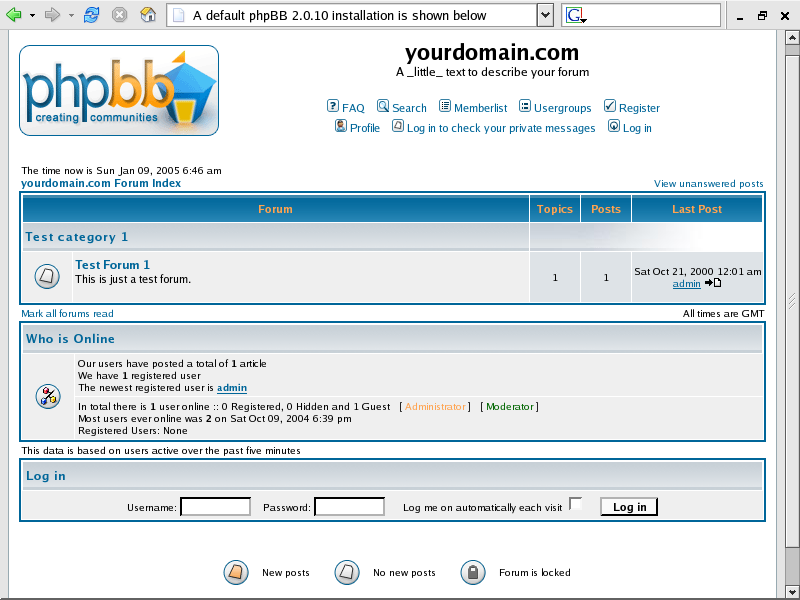
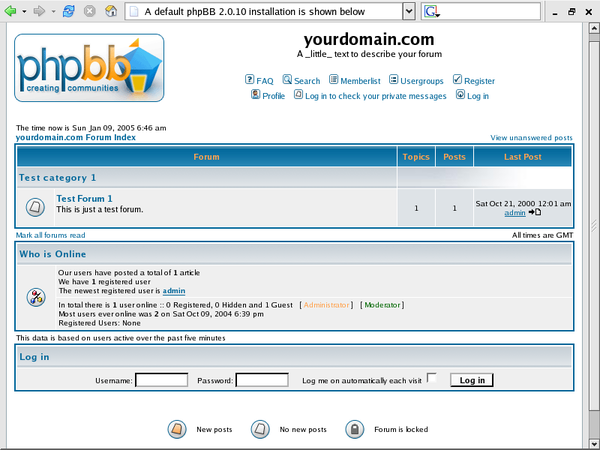
Resize images to 600

diff --git a/index.html b/index.html
@@ -673,16 +673,16 @@
                 // Optional libraries used to extend on reveal.js
                 dependencies: [
                     { src: 'bower_components/reveal.js/lib/js/classList.js', condition: function() { return !document.body.classList; } },
-                    { src: 'bower_components/reveal.js/plugin/markdown/marked.js', condition: function() { return !!document.querySelector( '[data-markdown]' ); } },
-                    { src: 'bower_components/reveal.js/plugin/markdown/markdown.js', condition: function() { return !!document.querySelector( '[data-markdown]' ); } },
-                    { src: 'bower_components/reveal.js/plugin/highlight/highlight.js', async: true, callback: function() { hljs.initHighlightingOnLoad(); } },
-                    { src: 'bower_components/reveal.js/plugin/zoom-js/zoom.js', async: true, condition: function() { return !!document.body.classList; } },
+                    // { src: 'bower_components/reveal.js/plugin/markdown/marked.js', condition: function() { return !!document.querySelector( '[data-markdown]' ); } },
+                    // { src: 'bower_components/reveal.js/plugin/markdown/markdown.js', condition: function() { return !!document.querySelector( '[data-markdown]' ); } },
+                    // { src: 'bower_components/reveal.js/plugin/highlight/highlight.js', async: true, callback: function() { hljs.initHighlightingOnLoad(); } },
+                    // { src: 'bower_components/reveal.js/plugin/zoom-js/zoom.js', async: true, condition: function() { return !!document.body.classList; } },
                     { src: 'bower_components/reveal.js/plugin/notes/notes.js', async: true, condition: function() { return !!document.body.classList; } },
                     // { src: 'bower_components/reveal.js/plugin/search/search.js', async: true, condition: function() { return !!document.body.classList; } }
                     //{ src: 'bower_components/reveal.js/plugin/remotes/remotes.js', async: true, condition: function() { return !!document.body.classList; } }
 
                     { src: 'js/loadhtmlslides.js', condition: function() { return !!document.querySelector( '[data-html]' ); } },
-                    { src: 'js/custom.js' }
+                    // { src: 'js/custom.js' }
                 ]
             });
         </script>

diff --git a/templates/_index.html b/templates/_index.html
@@ -70,16 +70,16 @@
                 // Optional libraries used to extend on reveal.js
                 dependencies: [
                     { src: 'bower_components/reveal.js/lib/js/classList.js', condition: function() { return !document.body.classList; } },
-                    { src: 'bower_components/reveal.js/plugin/markdown/marked.js', condition: function() { return !!document.querySelector( '[data-markdown]' ); } },
-                    { src: 'bower_components/reveal.js/plugin/markdown/markdown.js', condition: function() { return !!document.querySelector( '[data-markdown]' ); } },
-                    { src: 'bower_components/reveal.js/plugin/highlight/highlight.js', async: true, callback: function() { hljs.initHighlightingOnLoad(); } },
-                    { src: 'bower_components/reveal.js/plugin/zoom-js/zoom.js', async: true, condition: function() { return !!document.body.classList; } },
+                    // { src: 'bower_components/reveal.js/plugin/markdown/marked.js', condition: function() { return !!document.querySelector( '[data-markdown]' ); } },
+                    // { src: 'bower_components/reveal.js/plugin/markdown/markdown.js', condition: function() { return !!document.querySelector( '[data-markdown]' ); } },
+                    // { src: 'bower_components/reveal.js/plugin/highlight/highlight.js', async: true, callback: function() { hljs.initHighlightingOnLoad(); } },
+                    // { src: 'bower_components/reveal.js/plugin/zoom-js/zoom.js', async: true, condition: function() { return !!document.body.classList; } },
                     { src: 'bower_components/reveal.js/plugin/notes/notes.js', async: true, condition: function() { return !!document.body.classList; } },
                     // { src: 'bower_components/reveal.js/plugin/search/search.js', async: true, condition: function() { return !!document.body.classList; } }
                     //{ src: 'bower_components/reveal.js/plugin/remotes/remotes.js', async: true, condition: function() { return !!document.body.classList; } }
 
                     { src: 'js/loadhtmlslides.js', condition: function() { return !!document.querySelector( '[data-html]' ); } },
-                    { src: 'js/custom.js' }
+                    // { src: 'js/custom.js' }
                 ]
             });
         </script>

diff --git a/css/theme.css b/css/theme.css
@@ -182,21 +182,17 @@ body {
   .reveal ul ul, .reveal ul ol, .reveal ol ul, .reveal ol ol {
     margin-bottom: 0; }
 .reveal .jt-horizontal-diagram {
-  display: flex;
-  align-items: center;
   list-style: none;
   margin: 2em 0; }
   .reveal .jt-horizontal-diagram li {
     display: inline-block;
-    flex: 1; }
+    float: left;
+    width: 33.333%; }
 .reveal .jt-images a {
   display: inline-block; }
 .reveal .jt-images img {
   display: inline-block;
   height: 8em; }
-.reveal iframe.full {
-  width: 100%;
-  height: 15em; }
 .reveal .jt-tags span {
   margin: 0 0.5em;
   line-height: 1.2;

diff --git a/css/source/theme.scss b/css/source/theme.scss
@@ -134,14 +134,13 @@ $selectionColor: #fff;
   }
 
   .jt-horizontal-diagram {
-    display: flex;
-    align-items: center;
     list-style: none;
     margin: 2em 0;
 
     li {
       display: inline-block;
-      flex: 1;
+      float: left;
+      width: 33.333%;
     }
   }
 
@@ -154,11 +153,6 @@ $selectionColor: #fff;
       display: inline-block;
       height: 8em;
     }
-  }
-
-  iframe.full {
-    width: 100%;
-    height: 15em;
   }
 
   .jt-tags {
